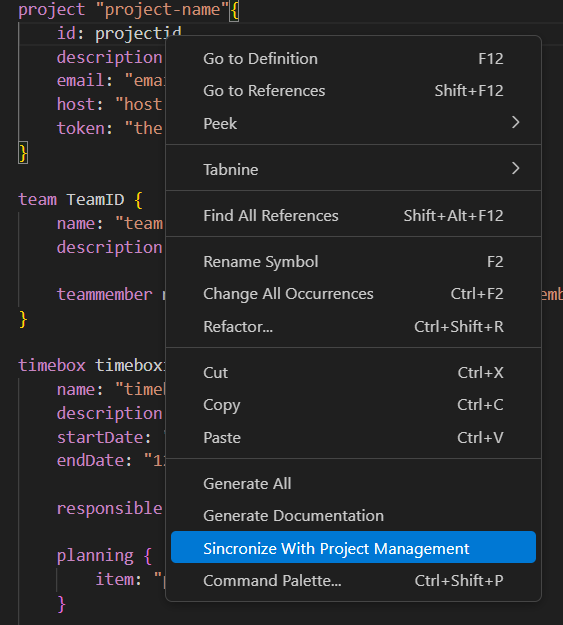
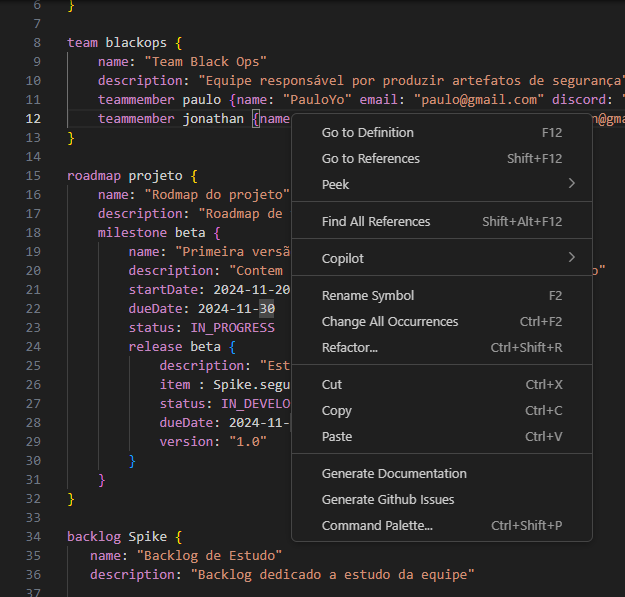
Co-authored-by: Rafael Leão <RiffXS@users.noreply.github.com> Co-authored-by: Brenoaaffonso <Brenoaaffonso@users.noreply.github.com>

diff --git a/src/cli/main.ts b/src/cli/main.ts
@@ -6,6 +6,8 @@ import { extractAstNode, buildAssigneeMap, processBacklogs, processTeams, proces
 import { generate } from './generator.js';
 import { NodeFileSystem } from 'langium/node';
 import { ReportManager } from 'made-lib';
+import * as dotenv from 'dotenv';
+import * as path from 'node:path';
 import { readFileSync } from 'node:fs';
 
 // Read package.json for version
@@ -48,6 +50,10 @@ export type GenerateOptions = {
 
 export default function(): void {
     const program = new Command();
+
+    program
+        .version(packageJson.version);
+
     const fileExtensions = MadeLanguageMetaData.fileExtensions.join(', ');
 
     program
@@ -61,13 +67,39 @@ export default function(): void {
         .action(generateAction);
 
     program
-        .command('github-push')
+        .command('github')
         .argument('<file>', `source file (possible file extensions: ${fileExtensions})`)
-        .option('-t, --token <token>', 'GitHub token for authentication')
-        .option('-o, --org <org>', 'GitHub organization name')
-        .option('-r, --repo <repo>', 'GitHub repository name')
-        .description('Push project to GitHub')
-        .action(githubPushAction);
+        .description('Push project data to GitHub Issues, Projects, and Roadmaps')
+        .action(async (fileName: string) => {
+            // Load .env from the same directory as the .made file
+            const envPath = path.join(path.dirname(path.resolve(fileName)), '.env');
+            dotenv.config({ path: envPath });
+
+            const token = process.env.GITHUB_TOKEN;
+            const org = process.env.GITHUB_ORG;
+            const repo = process.env.GITHUB_REPO;
+
+            if (!token || !org || !repo) {
+                console.error('❌ Missing required environment variables:');
+                console.error('   GITHUB_TOKEN - Your GitHub personal access token');
+                console.error('   GITHUB_ORG - Your GitHub organization/username');
+                console.error('   GITHUB_REPO - Your GitHub repository name');
+                console.error('\n💡 Create a .env file in the same directory as your .made file with:');
+                console.error('   GITHUB_TOKEN=your_token_here');
+                console.error('   GITHUB_ORG=your_org_here');
+                console.error('   GITHUB_REPO=your_repo_here');
+                process.exit(1);
+            }
+
+            try {
+                console.log('🚀 Pushing to GitHub...');
+                await githubPushAction(fileName, token, org, repo);
+                console.log('✅ Successfully pushed to GitHub!');
+            } catch (error: any) {
+                console.error('❌ Error pushing to GitHub:', error.message);
+                process.exit(1);
+            }
+        });
 
     program.parse(process.argv);
 }

diff --git a/README.md b/README.md
@@ -2,126 +2,204 @@
 # MADE
 It is a plugin that empowers the Scrum Master and the development team to create the backlog and sprints based on processes that can be reused and standardized throughout the project and/or across different projects.
 
-## Install
+## Installation
 
-To install the plugin, there are two methods. For the *first method*, follow these steps: 
-1. Download the plugin, 
+### VS Code Extension
+1. Open Visual Studio Code
+2. Go to Extensions (Ctrl+Shift+X)
+3. Search for "MADE-Leds"
+4. Click **Install**
+
+### CLI Tool (NPM)
+```bash
+# Install globally
+npm install -g made-leds
+
+# Or use locally
+npx made-leds --help
+```
+
+### Manual Installation (VSIX)
+1. Download the latest `.vsix` file from releases
 2. Open Visual Studio Code
-3. Right-click and then select "Install Extension VSIX" to initiate the installation.
-
-The *second method* follow these steps:
-
-1. Open the VSCode
-2. Click in Extensions
-3. Search : MADE-Leds
-4. Click in **Install**
+3. Right-click and select "Install Extension VSIX"
 
 ## Usage
-Right-click on your `.made` file and select "Synchronize With Project Management"  
+
+### VS Code Extension
+Right-click on your `.made` file and select:
+- **"Generate Documentation"** - Creates markdown documentation
+- **"Generate Github Issues"** - Pushes to GitHub Issues/Projects
+
+### CLI Commands
+```bash
+# Generate documentation
+made-cli generate project.made
+
+# Push to GitHub (requires .env configuration)
+made-cli github project.made
+
+# Help
+made-cli --help
+```
+
+### GitHub Integration Setup
+Create a `.env` file in your project directory:
+```env
+GITHUB_TOKEN=your_github_token
+GITHUB_ORG=your_organization
+GITHUB_REPO=your_repository
+```
 ![image with the right-click menu](images/right-click-menu.png)
 
 ## Components
 
 ### Project:
-  Define the project configuration and the token for creating the project in your project manager.
+Define the project configuration and metadata.
 
-  ```
-  project "project-name"{
-    id: projectid
-    description: "project description"
-    email: "email of the project editor"
-    host: "host.project.net"
-    token: "the api token"
+```
+project projectid {
+    name: "project name"
+    description: "project description" 
+    startDate: 2024-01-30
+    dueDate: 2024-12-30
+    completedDate: 2024-11-15
 }
 ```
 
 ### Team:
-Define a team and inside of it define the members of the team
+Define a team and its members.
 
 ```
-team TeamID {
+team teamid {
     name: "team name"
     description: "team description"
     
     teammember memberid {
-      name: "member name" 
-      email:"member@email.com"
-      }
+        name: "member name" 
+        email: "member@email.com"
+        discord: "discord-handle"
+    }
 }
 ```
 
-### Timebox:
-Define the timebox its responsibles, planning and performed
+### Sprint (TimeBox):
+Define sprints with their planning items and assignees.
 
 ```
-timebox timeboxid {
-    name: "timebox name"
-    description: "timebox description"
-    startDate: "2024/01/30"
-    endDate: "2024/12/30"
-
-    responsible: TeamID.memberid 
-
-    planning {
-        item: "planning item" assignee: "member name"
-    } 
-
-    performed{
-        item: "performed item" status: DOING
+sprint sprintid {
+    name: "Sprint name"
+    description: "Sprint description"
+    startDate: 2024-01-30
+    endDate: 2024-02-13
+    status: IN_PROGRESS
+    comment: "First sprint comment"
+    
+    sprintbacklog backlogid {
+        item backlogid.epicid.storyid.taskid {
+            assignee: teamid.memberid
+            dueDate: 2024-02-10
+            startDate: 2024-01-30
+            completedDate: 2024-02-08
+            status: DONE
+            complexity: MEDIUM
+        }
     }
 }
 ```
 
 ### Process: 
-Define the project and its activities.
+Define processes with their activities and tasks.
+
 ```
-process processID {
+process processid {
     name: "process name"
     description: "process description"
-
-    activity activityID{
+    
+    activity activityid {
         name: "activity name"
         description: "activity description"
-    }
-}
-```
-
-### BackLog:
-Define the backlog its epics and user stories.
-
-```
-backlog BackLogID  {
-    name: "backlog name"
-    description: "backlog description"
-    epic EpicId {
-        name: "Epic name"
-        process: processID
-    }
-    userstory userstoryId {
-        name: "User story name"
-        activity: processID.activityID
-    }
-}
-```
-
-<!-- ### RoadMap:
-Define the road map, its versions and the versions planning
-
-```
-roadmap RoadMapID {
-    name: "Road map name"
-    description: "Road map description"
-
-    version RoadMapVersionID {
-        name: "Road map version name"
-        description: "Road map version description"
-        startDate: "2024/01/30"
-        endDate: "2024/12/30"
-
-        planning {
-            item: BackLogID.userstoryId
-            item: "planning item"
+        
+        task taskid {
+            name: "task name"
+            description: "task description"
         }
     }
 }
-``` -->
+```
+
+### Backlog:
+Define backlogs with epics, stories, and tasks.
+
+```
+backlog backlogid {
+    name: "backlog name"
+    description: "backlog description"
+    
+    epic epicid {
+        name: "Epic name"
+        description: "Epic description"
+        process: processid
+        Criterions: "acceptance criteria 1", "criteria 2"
+        observation: "epic notes"
+        
+        story storyid {
+            name: "User story name"
+            description: "Story description"
+            activity: processid.activityid
+            depends: backlogid.anotherstory
+            Requirements: "requirement 1", "requirement 2"
+            Criterions: "story criteria"
+            observation: "story notes"
+            
+            task taskid {
+                name: "Task name"
+                description: "Task description"
+                task: processid.activityid.taskid
+                depends: backlogid.epicid.storyid.anothertask
+                Deliverables: "deliverable 1", "deliverable 2"
+            }
+        }
+    }
+    
+    story standalonstory {
+        name: "Standalone story"
+        description: "Story not inside epic"
+        
+        task storytask {
+            name: "Story task"
+        }
+    }
+}
+```
+
+### Roadmap:
+Define roadmaps with milestones and releases.
+
+```
+roadmap roadmapid {
+    name: "Roadmap name"
+    description: "Roadmap description"
+    
+    milestone milestoneid {
+        name: "Milestone name"
+        description: "Milestone description"
+        startDate: 2024-01-30
+        dueDate: 2024-03-30
+        completedDate: 2024-03-25
+        status: COMPLETED
+        depends: roadmapid.previousmilestone
+        
+        release releaseid {
+            name: "Release name"
+            description: "Release description"
+            version: "1.0.0"
+            dueDate: 2024-03-30
+            releasedDate: 2024-03-25
+            status: RELEASED
+            item: backlogid.epicid
+            itens: backlogid.story1, backlogid.story2
+        }
+    }
+}
+```
